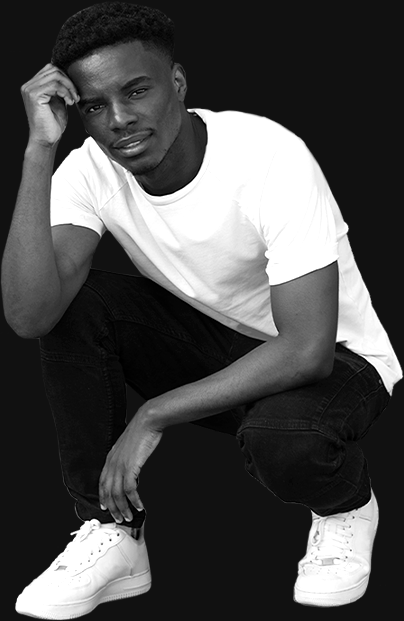
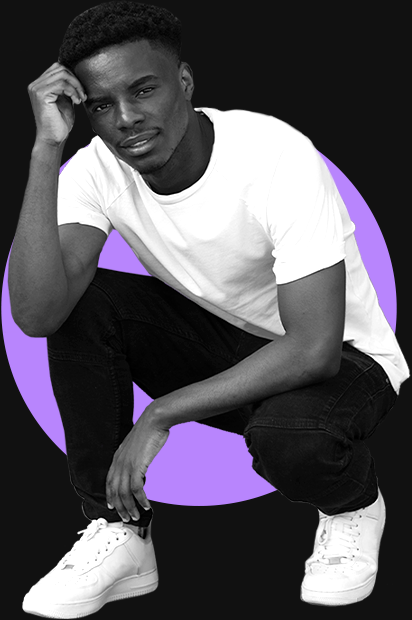
added about us

diff --git a/index.html b/index.html
@@ -279,6 +279,141 @@
 
             </div>
         </div>
+        <div class="find-course-card">
+            <div class="find-course-card-course">
+                <div class="find-course-card-course-container">
+                    <div class="find-course-card-course-square">
+                        <p class="find-course-card-course-square-text">.01</p>
+                    </div>
+                    <div class="find-course-card-course-title">
+                        <p class="find-course-card-course-title-text-01">COURSE</p>
+                        <p class="find-course-card-course-title-text-02">01</p>
+                    </div>
+                    <div class="find-course-card-course-description">
+                        <p class="find-course-card-course-text">Lorem ipsum dolor sit amet, consectetur adipiscing elit,
+                            sed do eiusmod tempor incididunt ut labore et.</p>
+                    </div>
+                    <div class="btn-find-course-card-course-container">
+                        <a href="#" class="btn-find-course-card-course">
+                            <p class="btn-find-course-card-course-text">READ MORE</p>
+                        </a>
+                    </div>
+                </div>
+            </div>
+            <div class="find-course-card-course">
+                <div class="find-course-card-course-container">
+                    <div class="find-course-card-course-square">
+                        <p class="find-course-card-course-square-text">.02</p>
+                    </div>
+                    <div class="find-course-card-course-title">
+                        <p class="find-course-card-course-title-text-01">COURSE</p>
+                        <p class="find-course-card-course-title-text-02">02</p>
+                    </div>
+                    <div class="find-course-card-course-description">
+                        <p class="find-course-card-course-text">Lorem ipsum dolor sit amet, consectetur adipiscing elit,
+                            sed do eiusmod tempor incididunt ut labore et.</p>
+                    </div>
+                    <div class="btn-find-course-card-course-container">
+                        <a href="#" class="btn-find-course-card-course">
+                            <p class="btn-find-course-card-course-text">READ MORE</p>
+                        </a>
+                    </div>
+
+                </div>
+            </div>
+            <div class="find-course-card-course">
+                <div class="find-course-card-course-container">
+                    <div class="find-course-card-course-square">
+                        <p class="find-course-card-course-square-text">.03</p>
+                    </div>
+                    <div class="find-course-card-course-title">
+                        <p class="find-course-card-course-title-text-01">COURSE</p>
+                        <p class="find-course-card-course-title-text-02">03</p>
+                    </div>
+                    <div class="find-course-card-course-description">
+                        <p class="find-course-card-course-text">Lorem ipsum dolor sit amet, consectetur adipiscing elit,
+                            sed do eiusmod tempor incididunt ut labore et.</p>
+                    </div>
+                    <div class="btn-find-course-card-course-container">
+                        <a href="#" class="btn-find-course-card-course">
+                            <p class="btn-find-course-card-course-text">READ MORE</p>
+                        </a>
+                    </div>
+                </div>
+            </div>
+            <div class="find-course-card-course">
+                <div class="find-course-card-course-container">
+                    <div class="find-course-card-course-square">
+                        <p class="find-course-card-course-square-text">.04</p>
+                    </div>
+                    <div class="find-course-card-course-title">
+                        <p class="find-course-card-course-title-text-01">COURSE</p>
+                        <p class="find-course-card-course-title-text-02">04</p>
+                    </div>
+                    <div class="find-course-card-course-description">
+                        <p class="find-course-card-course-text">Lorem ipsum dolor sit amet, consectetur adipiscing elit,
+                            sed do eiusmod tempor incididunt ut labore et.</p>
+                    </div>
+                    <div class="btn-find-course-card-course-container">
+                        <a href="#" class="btn-find-course-card-course">
+                            <p class="btn-find-course-card-course-text">READ MORE</p>
+                        </a>
+                    </div>
+                </div>
+            </div>
+        </div>
+        <div class="find-course-more">
+            <div class="find-course-more-title">
+                <p class="find-course-more-title-text">MORE COURSES</p>
+            </div>
+            <div class="find-course-more-arrow">
+                <img src="assets/images/right-arrow.png" alt="right-arrow">
+            </div>
+        </div>
+    </div>
+    <div class="about-us">
+        <div class="about-us-left">
+            <div class="about-us-left-title">
+                <p class="about-us-left-title-text-01">About</p>
+                <p class="about-us-left-title-text-02">us.</p>
+            </div>
+            <div class="about-us-left-description">
+                <p class="about-us-left-description-text">Lorem ipsum dolor sit amet, consectetur adipiscing elit, sed
+                    do eiusmod tempor incididunt ut labore et dolore magna aliqua Quis ipsum suspendisse.</p>
+            </div>
+            <div class="about-us-left-container">
+                <div class="about-us-left-container-up">
+                    <div class="about-us-left-container-0">
+                        <div class="about-us-left-container-0-square"></div>
+                        <p class="about-us-left-container-0-text">LOREM IPSUM DOLOR.</p>
+                    </div>
+                    <div class="about-us-left-container-0">
+                        <div class="about-us-left-container-0-square"></div>
+                        <p class="about-us-left-container-0-text">LOREM IPSUM DOLOR.</p>
+                    </div>
+                </div>
+                <div class="about-us-left-container-down">
+                    <div class="about-us-left-container-0">
+                        <div class="about-us-left-container-0-square"></div>
+                        <p class="about-us-left-container-0-text">LOREM IPSUM DOLOR.</p>
+                    </div>
+                    <div class="about-us-left-container-0">
+                        <div class="about-us-left-container-0-square"></div>
+                        <p class="about-us-left-container-0-text">LOREM IPSUM DOLOR.</p>
+                    </div>
+                </div>
+
+
+            </div>
+            <div class="btn-find-course-card-course-container  btn-about">
+                <a href="#" class="btn-find-course-card-course">
+                    <p class="btn-find-course-card-course-text">READ MORE</p>
+                </a>
+            </div>
+        </div>
+        <div class="about-us-right">
+            <img src="assets/images/person-02.png" alt="">
+        </div>
     </div>
 
     <script src="js/carousel.js"></script>

diff --git a/css/components/about.css b/css/components/about.css
@@ -1,0 +1,87 @@
+.about-us {
+    display: flex;
+    width: 100%;
+    height: 1063px;
+    background-image: url(../../assets/images/background-circle.png);
+    margin-top: 24px;
+}
+.about-us-left-title {
+    display: flex;
+    margin-top: 221px;
+    margin-left: 181px;
+}
+
+p.about-us-left-title-text-01 {
+    font-family: 'Krub-Bold';
+    color: #ffffff;
+    font-size: 63px;
+}
+
+p.about-us-left-title-text-02 {
+    font-family: 'Krub-Regular';
+    font-size: 63px;
+    color: #aa84f9;
+    margin-left: 25px;
+}
+
+.about-us-left {
+    width: 60%;
+}
+
+.about-us-right {
+    padding-top: 114px;
+}
+
+.about-us-left-description {
+    margin-left: 181px;
+    width: 401px;
+    margin-top: 20px;
+}
+
+.about-us-left-container {
+    margin-left: 181px;
+    margin-top: 64px;
+    padding-left: 5px;
+}
+
+p.about-us-left-description-text {
+    font-family: 'Krub-SemiBold';
+    color: #ffffff;
+    font-size: 16px;
+    line-height: 28px;
+}
+.about-us-left-container-0-square {
+    width: 9px;
+    height: 9px;
+    background-color: #aa84f9;
+}
+
+.about-us-left-container-up {
+    display: flex;
+    width: 418px;
+    justify-content: space-between;
+}
+
+.about-us-left-container-down {
+    display: flex;
+    width: 418px;
+    justify-content: space-between;
+    margin-top: 51px;
+}
+
+p.about-us-left-container-0-text {
+    font-family: 'Krub-Bold';
+    font-size: 12px;
+    color: #ffffff;
+    margin-left: 7px;
+}
+
+.about-us-left-container-0 {
+    display: flex;
+    align-items: center;
+}
+.btn-find-course-card-course-container.btn-about {
+    justify-content: left;
+    margin-left: 183px;
+    margin-top: 73px;
+}

diff --git a/css/components/card.css b/css/components/card.css
@@ -1,0 +1,52 @@
+.find-course-card {
+    display: flex;
+    margin-top: 105px;
+    justify-content: space-evenly;
+}
+.find-course-card-course {
+    height: 377px;
+    width: 295px;
+    border: #ffffff 4px solid;
+}
+
+.find-course-card-course-square {
+    width: 44px;
+    height: 44px;
+    background-color: #ffffff;
+    text-align: center;
+    padding-top: 7px;
+    margin-top: -1px;
+    margin-left: -1px;
+}
+
+p.find-course-card-course-square-text {
+    font-family: 'Krub-Bold';
+    font-size: 21px;
+}
+.find-course-card-course-title {
+    display: flex;
+    width: 100%;
+    margin-top: 28px;
+    justify-content: center;
+}
+
+p.find-course-card-course-title-text-01 {
+    font-family: 'Krub-SemiBold';
+    color: #ffffff;
+    font-size: 35px;
+    margin-right: 9px;
+}
+
+p.find-course-card-course-title-text-02 {
+    font-family: 'Krub-SemiBold';
+    color: #aa84f9;
+    font-size: 35px;
+}
+p.find-course-card-course-text {
+    font-family: 'Krub-SemiBold';
+    color: #ffffff;
+    font-size: 15px;
+    line-height: 26px;
+}
+
+.find-course-card-course-description {padding-left: 38px;padding-right: 38px;text-align: center;margin-top: 36px;}

diff --git a/css/components/course.css b/css/components/course.css
@@ -1,6 +1,6 @@
 .find-course {
     width: 100%;
-    height: 816px;
+    height: 727px;
 }
 
 .find-course-title-bar {
@@ -61,4 +61,38 @@ p.find-course-title-bar-industry-03-text-2022 {
 
 .find-course-title-bar-industry-03 {
     display: flex;
+}
+
+a.btn-find-course-card-course {
+    text-decoration: none;
+    width: 127px;
+    height: 47px;
+    background-color: #a460f9;
+    text-align: center;
+    padding-top: 11px;
+}
+
+p.btn-find-course-card-course-text {
+    font-family: 'Oswald-Medium';
+    color: #ffffff;
+}
+.btn-find-course-card-course-container {
+    margin-top: 31px;
+    display: flex;
+    justify-content: center;
+}
+.find-course-more {
+    display: flex;
+    justify-content: center;
+    margin-top: 71px;
+}
+
+p.find-course-more-title-text {
+    font-family: 'Krub-Bold';
+    font-size: 16px;
+    color: #ffffff;
+}
+
+.find-course-more-title {
+    margin-right: 83px;
 }

diff --git a/css/main.css b/css/main.css
@@ -8,7 +8,9 @@
 @import url(./components/header.css);
 @import url(./components/carousel.css);
 @import url(./components/middle.css);
+@import url(./components/card.css);
 @import url(./components/course.css);
+@import url(./components/about.css);
 @import url(./components/button.css);
 @import url(./components/footer.css);
 @import url(./components/form.css);
